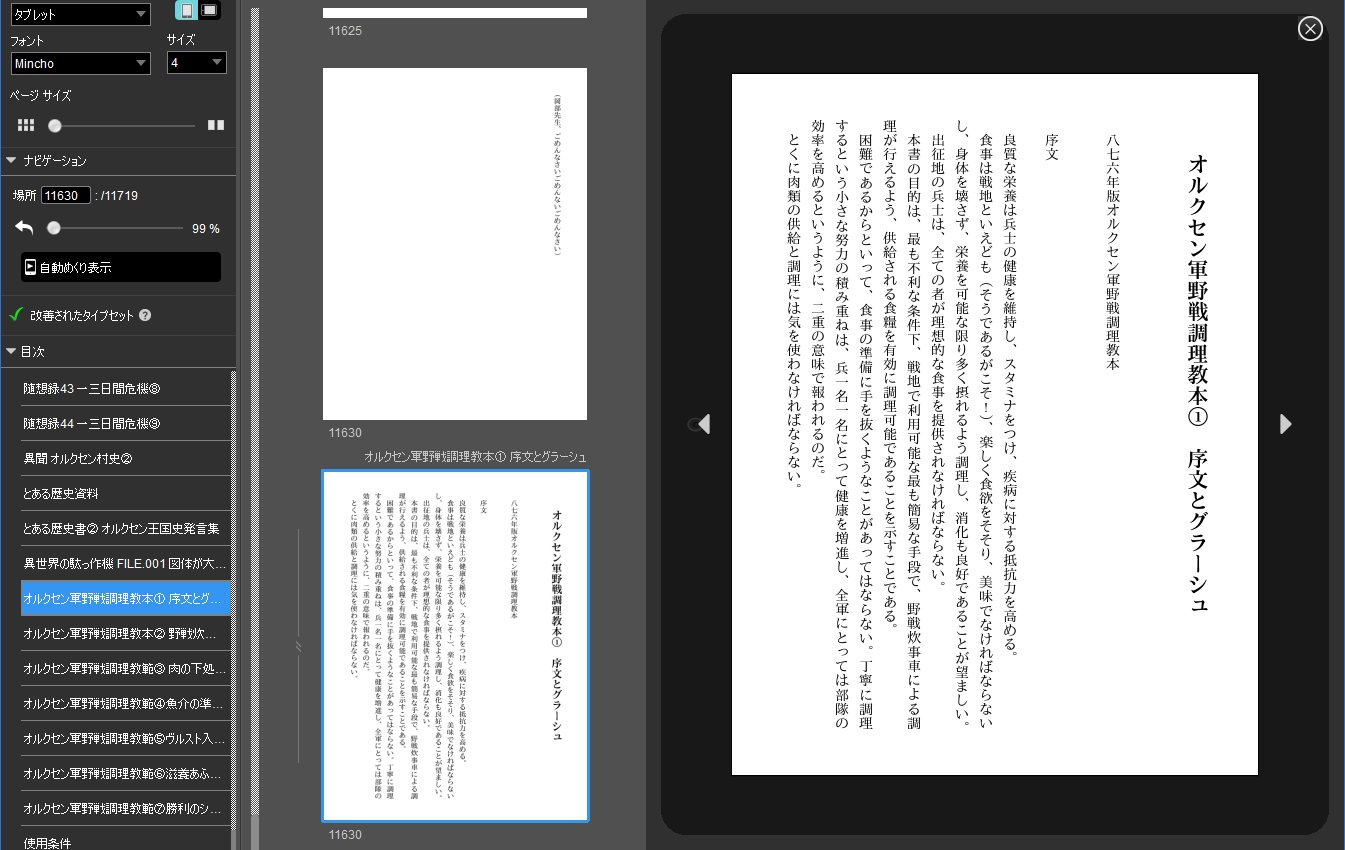
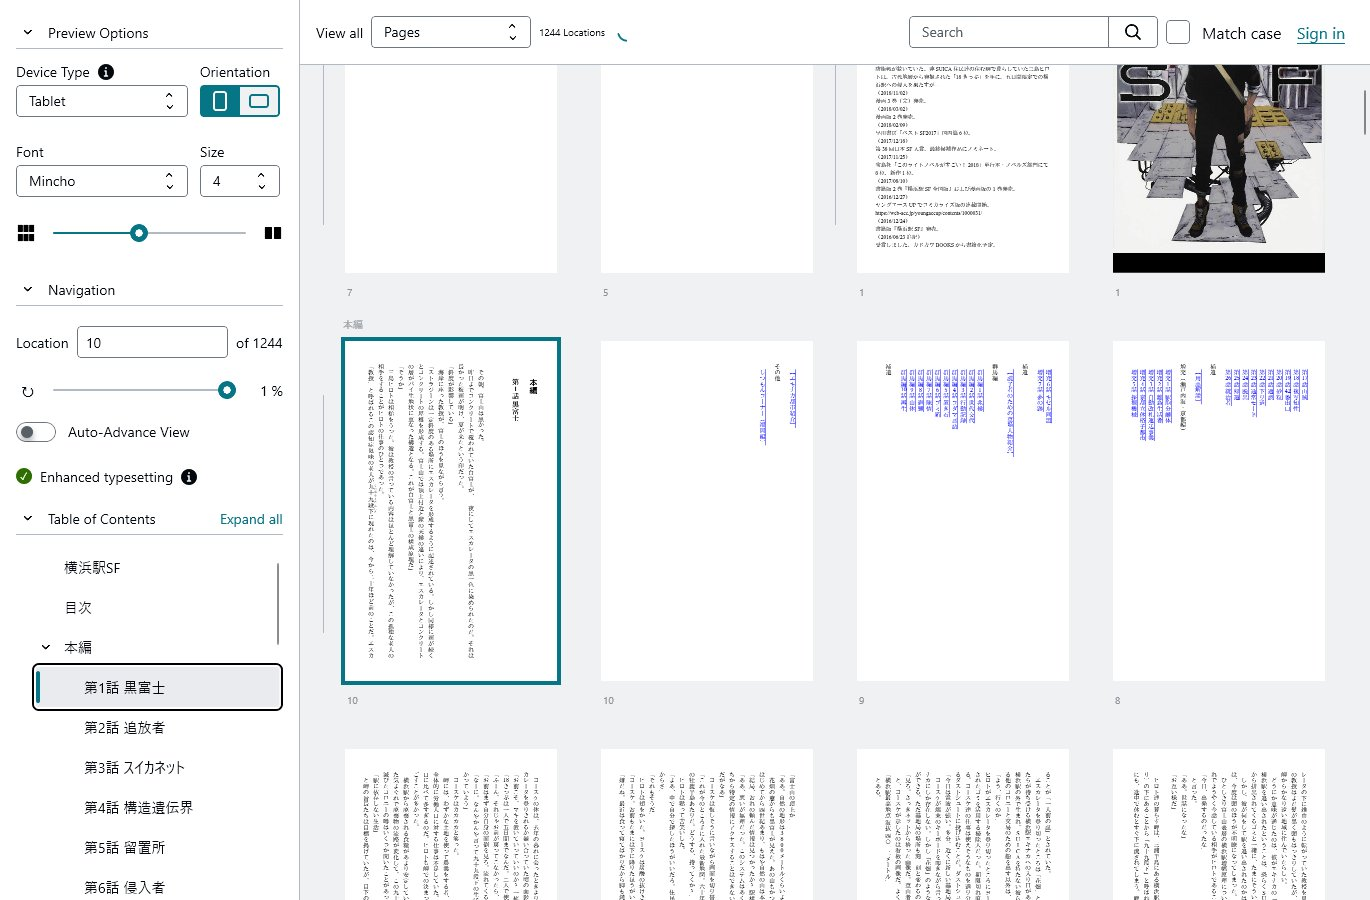
Update documentation

diff --git a/README.md b/README.md
@@ -2,22 +2,52 @@
 
 `kkym` is a Node-based CLI command to download and convert a Kakuyomu work (novel) into an EPUB structure for the purpose of private offline reading. The generated files may then be manually fine-tuned and zipped/packed to create a single EPUB or Kindle book.
 
-This program has been developed for my personal use, only tested on a Windows environment with a few works of my own interests. It may not have much compatibility with other conditions.
+This program has been developed for my personal use, only tested on a Windows environment and an old Kindle Paperwhite with a few works of my own interests. It may not have much compatibility with other conditions.
 
-<figure align="center">
-  <img src="screenshot-kindle-previewer.jpg" width="600">
-  <figcaption>Converted MOBI sample, open in Kindle Previewer (オルクセン王国史)</figcaption>
-</figure>
+<p align="center">
+<img src="screenshot-kindle-previewer.jpg" width="600"/><br/>
+Converted book sample, shown in Kindle Previewer 4 (横浜駅SF)
+</p>
 
-Output format:
+Output structure:
 
-- The entire content is arranged vertically, read from right to left.
-- The work introduction page is an exception and written horizontally. If the description is long and spans more than one page in a reader program, the text reads left-to-right but the pages progress right-to-left.
-- In the vertical-layout pages, 1-/3-digit numbers and 1-/2-letter alphanumerics are rendered upright (CSS `text-orientation:upright`). 2-digit numbers are rendered combined upright (`text-combine-upright:all`). Longer alphanumerics are shown sideways. (More adjustments needed?)
+```
+<OUTPUT-DIR>/
++- mimetype
++- META-INF/
+   +- container.xml
++- OEBPS/
+   +- kkym.css
+   +- intro.html      -- work introduction
+   +- toc.html        -- table of content
+   +- <EPISODE-FILES> -- episodes (the main text)
+   +- terms.html
++- content.opf
++- cover.xhtml        -- cover file
++- cover.jpg          -- cover image if any
++- nav.xhtml
++- toc.ncx
+```
+
+Where `<EPISODE-FILES>` is one or more episode files, named as `c#e##.html` or `e##.html` where # is the sequential number of the chapter and/or episode.
+
+Conversion behaviors:
+
+- The content text is arranged vertically, read from right to left, with an exception of `OEBPS/intro.html` which is written horizontally.
+- Text justification is disabled simply because I don't like it.
+- In the vertical-layout pages, numbers of 1, 3, 4 digits, alphanumerics of 1 or 2 letters, and uppercase alphabet sequences are rendered upright (CSS `text-orientation:upright`). 2-digit numbers are rendered combined upright (`text-combine-upright:all`). Longer alphanumerics are shown sideways. (More adjustments needed?)
+- The cover image `cover.jpg` is taken from the work definition. If the image height is smaller than 1600px, it's automatically enlarged (using `sharp`) in order to avoid the issue that a smaller cover image may not be displayed on Kindle devices.
 
 ## Install
 
-This program is written in TypeScript and managed using [pnpm](https://pnpm.io/). The release tarball contains the compiled JS code and necessary assets. Download the tarball and install it with:
+This program is written in TypeScript with Node.js and managed using [pnpm](https://pnpm.io/).
+
+Dependencies:
+
+- Node.js 24
+- External modules: [Commander.js](https://github.com/tj/commander.js), [jsdom](https://github.com/jsdom/jsdom), [mustache.js](https://github.com/janl/mustache.js), [sharp](https://sharp.pixelplumbing.com/)
+
+The release tarball contains the compiled JS code and asset files. Download the tarball and install it with:
 
 ```
 pnpm install -g <FULL-PATH>\kkym-<VERSION>.tgz
@@ -29,34 +59,44 @@ On Windows, `pnpm` may silently fail to create "bin" files (kkym, kkym.CMD) due 
 
 ## Basic Usage
 
+For available commands and options, run `kkym help` or `kkym <COMMAND> --help`.
+
+To download a Kakuyomu work without conversion:
+
 ```
-kkym epubify <WORK-URL> --output <OUTPUT-DIR>
+kkym download <WORK-URL> --output <DOWNLOAD-DIR>
 ```
 
-Where `<WORK-URL>` is a Kakuyomu work URL or ID. It can also be a local path to the work HTML file which could be downloaded by `kkym download` command.
+Where `<WORK-URL>` is a Kakuyomu work URL or ID.<br/>
+This command downloads the work page, episodes and cover image (if any). The work page is saved as `<WORK-ID>.html` and can be renamed for easier identification. The episode files and cover image should be kept in the original names.
 
-After the output files are successfully generated, I would recommend reviewing and editing them to correct possible issues, such as missing a cover image, having too much extra spaces between lines and so on. Then you may want to create an EPUB file:
+To convert the work into an EPUB structure using the downloaded files:
+
+```
+kkym epubify <DOWNLOAD-DIR>/<WORK-ID>.html --output <OUTPUT-DIR>
+```
+
+After the output files are successfully generated, I would recommend reviewing and editing them to correct possible issues, such as missing cover image, too much extra spaces between lines, corrupt layouts and so on. Then you may want to create an EPUB file:
 
 ```
 cd <OUTPUT-DIR>
-zip -0X ..\<EPUB-FILE> mimetype
-zip -9rDXJu ..\<EPUB-FILE> * -x mimetype
+zip -0X ../<EPUB-FILE> mimetype
+zip -9rDXJu ../<EPUB-FILE> * -x mimetype
 ```
 
-Or a Kindle book:
+Or a Kindle KPF file:
 
 ```
-cd <OUTPUT-DIR>
-kindlegen -c2 content.opf -o <MOBI-FILE>
+kindlepreviewer4 <OUTPUT-DIR>/content.opf --convert --output <KPF-OUTPUT-DIR>
 ```
 
-## Customization
+Or a Kindle MOBI file:
 
-For now, customization of the output layout/formatting could be done by modifying the static assets in src/assets and [mustache](https://mustache.github.io/) templates in src/templates. Or just edit the generated files directly.
+```
+kindlegen -c2 <OUTPUT-DIR>/content.opf -o <MOBI-FILE>
+```
 
-## Todo?
-
-- Make static assets overridable.
+Note that `kindlegen` creates the output file in the same directory as the input file.
 
 ## Terms
 
